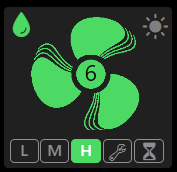
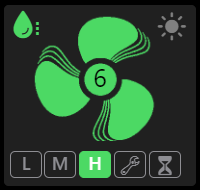
1.1, humidity indicator and remaining time for temp. increased fan

diff --git a/README.md b/README.md
@@ -28,6 +28,7 @@ Features
 2. In the center of the fan the speed is shown
 	* It will show in % using the itho addon range 0-254
 	* It can go below 20 but I read not all fans will keep turning at a very low setting. This is a safe value.
+	* When running on a timer a (decreasing) circle will appear to show remaiing time (both for remote and auto-rule)
 2. It has a low, medium, high button. 
 	* This will set the corresponding speed (as set in the itho addon)
 	* The chosen button will light up green (also when it's set by the remote!)
@@ -41,6 +42,7 @@ Features
 	* Any other value will make the setup/wrench button green
 5. It had a humidity icon
 	* Between 40 and 60% (recommended values for health) it will be green, else gray
+	* small 5 dotted indicator (for every 20%)
 	* Pressing it will show a 24 hour humidity graph (new!)
 6. It had a auto control icon
 	* If it shows a moon, it's in night mode. If the icon is green with according speed. If gray a manual change had been made.
@@ -52,18 +54,21 @@ Features
 	* Automatic spin up while/after cooking/showering (and prevent on/off loops) 
 	* Reset of manual input to default day/night speed
 
-## Versions/releases
-* 0.1 - Initial version
-* 1.0 - First release of complete set with thing, widget and rules
+## Worklist
+* 1.0 - Released
+* 1.1 - Current - Work in progress
 	
 It new at the moment, so work in progress. Expect changes. 
 * done in 1.0 - Next addition will be a rule to automaticly control fan when showering or at day/night.
 * done in 1.0 - A popup graph with 24 hours humidity and/or speed.
 * done in 1.0 - The current setup uses the web api with a refresh of 30 seconds. Command is sent immediatelly but the widget is delayed on updating.
-* Showing timer countdown (maybe in circle around 'fan' axis?
+* done in 1.1 - Showing timer countdown (maybe in circle around 'fan' axis)
 * Press day/night icon to restore normal day/night settings?
 * split day in morning/afternoon/evening?
-* humidity level in indicator?
+* done in 1.1 - humidity level in indicator (5 dots/ every 20%)
+* The API uses three queries on the url and I combined them in one thing. Maybe openHAB processes all url's three times now. Accept this or split them?
+* done in 1.1 - Bug, remote timer 'overidden' by autorule before end of timer
+* CSS issue with mobile mode (openHab app), probably because of min sizes. Testing with full screen chrome in desktop mode.
 
 ## Preperation
 1. Have an openhab installation :grin:
@@ -162,6 +167,7 @@ Optional, if you want no automatic change to ventilation settings you can skip t
 ## Versions
 0.9 Initial version
 1.0 First release (added humidity graph, auto setting rule and layout improvements)
+1.1 Second release (added humidity indicator, remaining time for timers)
 	
 ## Code
 The code is pretty standard. Things you might find interesting for changes
